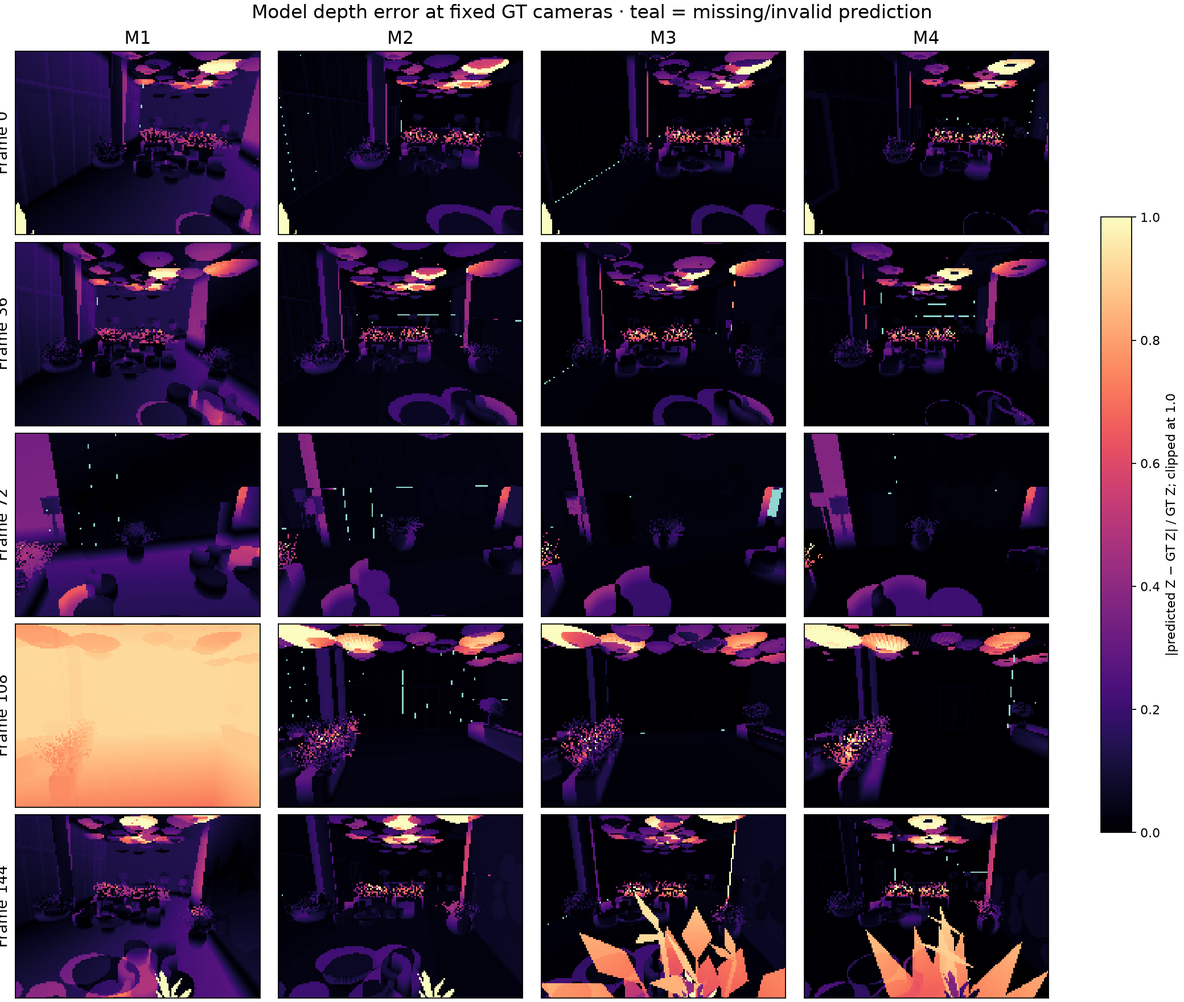
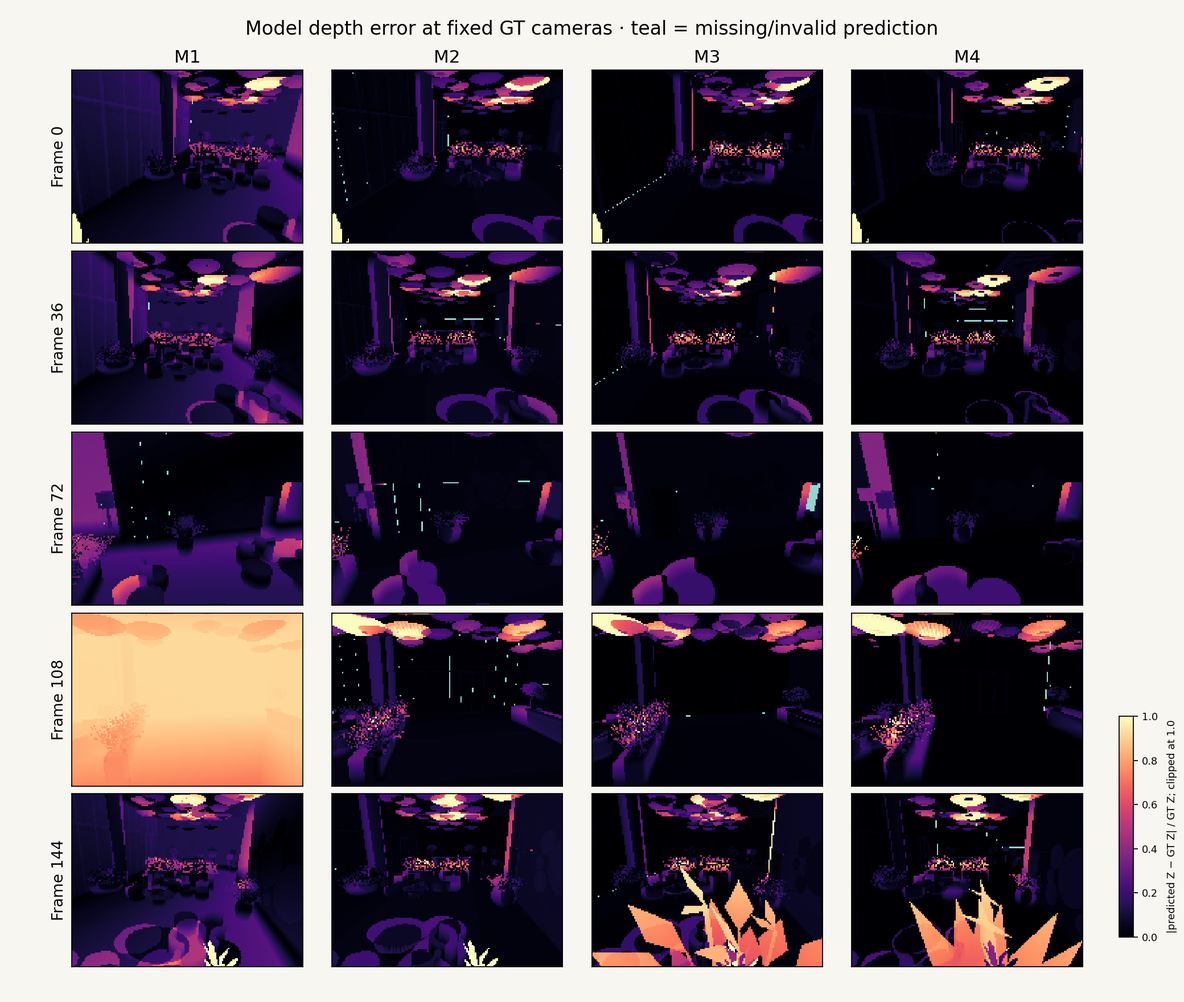
Refine comparison figures and M4 loading

diff --git a/style.css b/style.css
@@ -1,1 +1,1 @@
-:root{--paper:#f7f6f1;--white:#fffefa;--ink:#182c29;--muted:#60706a;--green:#196451;--line:#d9dfd7;--gold:#b87e40}*{box-sizing:border-box}html{scroll-behavior:smooth}body{margin:0;background:var(--paper);color:var(--ink);font:17px/1.8 Inter,"Noto Sans CJK SC",system-ui,sans-serif}a{color:var(--green);text-underline-offset:4px}img{display:block;max-width:100%;height:auto}.skip{position:absolute;left:-9999px}.skip:focus{left:12px;top:12px;background:white;padding:8px;z-index:9}nav{max-width:1420px;margin:auto;padding:22px 4vw;display:flex;justify-content:space-between;border-bottom:1px solid var(--line);font-size:12px;letter-spacing:.09em}nav div{display:flex;gap:20px}.brand{font-weight:750;text-decoration:none}header{max-width:1120px;margin:56px auto 36px;padding:0 32px}.eyebrow,.section-tag{font-size:11px;letter-spacing:.16em;color:var(--green);font-weight:700}h1,h2{font-family:Georgia,"Noto Serif CJK SC",serif;font-weight:500}h1{font-size:clamp(46px,7vw,88px);line-height:1.12;letter-spacing:-.035em;margin:18px 0}.lead{max-width:800px;color:var(--muted);font-size:20px}.meta{display:flex;gap:24px;flex-wrap:wrap;font-size:12px;color:var(--muted)}.hero{max-width:1320px;margin:35px auto 68px;padding:0 28px}.hero img,figure>img{width:100%;background:#e8ebe5}.hero-pair-grid{display:grid;grid-template-columns:1fr 1fr;gap:3px;background:var(--ink)}.hero-pair-grid img{width:100%;aspect-ratio:4/3;object-fit:cover}.hero-pair-grid p{margin:0;padding:7px 12px;background:var(--ink);color:#f7f6f1;font-size:10px;letter-spacing:.11em}figcaption{font-size:12px;color:var(--muted);margin-top:10px}figcaption span{font-weight:700;color:var(--green)}.layout{max-width:1300px;margin:auto;padding:0 30px;display:grid;grid-template-columns:190px minmax(0,920px);gap:60px;justify-content:center}.toc{position:sticky;top:24px;align-self:start;display:flex;flex-direction:column;gap:9px;font-size:12px}.toc a{text-decoration:none;color:var(--muted)}main{min-width:0}section{padding:28px 0 38px;border-top:1px solid var(--line)}section:first-child{border-top:0}.standfirst{font-size:23px;line-height:1.55;color:var(--green)}h2{font-size:32px;margin:7px 0 22px}.notice{border-left:3px solid var(--gold);padding:10px 18px;margin:24px 0;color:var(--muted);background:#fff9}.table-figure{margin:30px 0}.table-scroll{overflow:auto;border:1px solid var(--line);background:var(--white);margin-top:9px}table{width:100%;border-collapse:collapse;white-space:nowrap;font-size:12px;font-variant-numeric:tabular-nums}th,td{padding:11px 12px;border-bottom:1px solid var(--line);text-align:left;vertical-align:top}th{background:#edf0e9;color:var(--muted)}td.wrap{white-space:normal;min-width:240px}.scene-comparison,.fixed-comparison{margin:34px 0;padding:20px;border:1px solid var(--line);border-radius:6px;background:var(--white)}.scene-comparison h3{margin:0 0 18px}.scene-toolbar,.controlrow{display:flex;gap:14px 20px;align-items:end;flex-wrap:wrap}.scene-toolbar label,.controlrow label{display:flex;flex-direction:column;font-size:12px;color:var(--muted)}.method-control{flex:1 1 280px}select,button{font:inherit}.scene-toolbar button,.scene-retry{font-size:13px;padding:9px 13px;color:var(--green);border:1px solid var(--line);border-radius:3px;background:var(--paper);cursor:pointer}.scene-stage{position:relative;height:540px;width:100%;background:#e9ede5;margin-top:18px;overflow:hidden;border-radius:4px;--split:50%}.scene-stage canvas{display:block;width:100%;height:100%;touch-action:none}.scene-label{position:absolute;top:12px;z-index:3;padding:4px 8px;background:#fffde;color:var(--ink);font-size:11px;pointer-events:none}.scene-label-left{left:12px}.scene-label-right{right:12px}.scene-divider{position:absolute;z-index:4;left:var(--split);top:0;width:3px;height:100%;padding:0;border:0;background:white;box-shadow:0 0 0 1px #182c2955;transform:translateX(-50%);cursor:ew-resize;touch-action:none}.scene-divider:after{content:"↔";position:absolute;top:50%;left:50%;transform:translate(-50%,-50%);width:30px;height:30px;line-height:27px;border-radius:50%;background:white;color:var(--green);border:1px solid var(--line)}.scene-split{position:absolute;width:1px;height:1px;opacity:0}.scene-status{position:absolute;left:50%;top:50%;transform:translate(-50%,-50%);padding:9px 12px;background:#fffef0;z-index:5;font-size:13px}.scene-status.error{color:#8d251d}.scene-retry{display:none;margin-top:10px}.scene-comparison[data-state=error] .scene-retry{display:inline-block}.scene-comparison:not(.is-comparing) .scene-divider{display:none}.compare-pair{display:grid;grid-template-columns:1fr 1fr;gap:14px;margin-top:16px}.compare-pair img{width:100%;aspect-ratio:4/3;object-fit:contain;background:#e9ede5}.compare-subcaption{margin:6px 0 0;font-size:11px;color:var(--muted);letter-spacing:.04em}.asset-downloads{display:grid;grid-template-columns:1fr 1fr;gap:0 20px;font-size:12px}.asset-downloads p{margin:4px 0}.office-cafe-embed{margin-top:24px;border:1px solid var(--line);border-radius:6px;overflow:hidden;background:#111}.office-cafe-embed iframe{display:block;width:100%;height:min(880px,85vh);min-height:680px;border:0;background:#111}.office-links{display:flex;gap:18px;flex-wrap:wrap;font-size:12px}footer{max-width:1120px;margin:70px auto 0;padding:30px;border-top:1px solid var(--line);font-size:12px;color:var(--muted)}@media(max-width:950px){.layout{grid-template-columns:1fr}.toc{position:static;display:grid;grid-template-columns:1fr 1fr}}@media(max-width:600px){body{font-size:16px}nav{padding:17px 18px}.brand{font-size:10px}nav div{gap:12px}header{padding:0 20px;margin-top:35px}h1{font-size:43px}.lead{font-size:17px}.hero{padding:0 12px;margin-bottom:40px}.layout{padding:0 20px}.toc{grid-template-columns:1fr}.standfirst{font-size:20px}h2{font-size:27px}.scene-comparison,.fixed-comparison{padding:12px}.scene-stage{height:360px}.compare-pair,.asset-downloads{grid-template-columns:1fr}.office-cafe-embed iframe{height:760px;min-height:620px}}
+:root{--paper:#f7f6f1;--white:#fffefa;--ink:#182c29;--muted:#60706a;--green:#196451;--line:#d9dfd7;--gold:#b87e40}*{box-sizing:border-box}html{scroll-behavior:smooth}body{margin:0;background:var(--paper);color:var(--ink);font:17px/1.8 Inter,"Noto Sans CJK SC",system-ui,sans-serif}a{color:var(--green);text-underline-offset:4px}img{display:block;max-width:100%;height:auto}.skip{position:absolute;left:-9999px}.skip:focus{left:12px;top:12px;background:white;padding:8px;z-index:9}nav{max-width:1420px;margin:auto;padding:22px 4vw;display:flex;justify-content:space-between;border-bottom:1px solid var(--line);font-size:12px;letter-spacing:.09em}nav div{display:flex;gap:20px}.brand{font-weight:750;text-decoration:none}header{max-width:1120px;margin:56px auto 36px;padding:0 32px}.eyebrow,.section-tag{font-size:11px;letter-spacing:.16em;color:var(--green);font-weight:700}h1,h2{font-family:Georgia,"Noto Serif CJK SC",serif;font-weight:500}h1{font-size:clamp(46px,7vw,88px);line-height:1.12;letter-spacing:-.035em;margin:18px 0}.lead{max-width:800px;color:var(--muted);font-size:20px}.meta{display:flex;gap:24px;flex-wrap:wrap;font-size:12px;color:var(--muted)}.hero{max-width:1320px;margin:35px auto 68px;padding:0 28px}.hero img,figure>img{width:100%;background:#e8ebe5}.hero-pair-grid{display:grid;grid-template-columns:1fr 1fr;gap:3px;background:var(--ink)}.hero-pair-grid img{width:100%;aspect-ratio:4/3;object-fit:cover}.hero-pair-grid p{margin:0;padding:7px 12px;background:var(--ink);color:#f7f6f1;font-size:10px;letter-spacing:.11em}figcaption{font-size:12px;color:var(--muted);margin-top:10px}figcaption span{font-weight:700;color:var(--green)}.layout{max-width:1300px;margin:auto;padding:0 30px;display:grid;grid-template-columns:190px minmax(0,920px);gap:60px;justify-content:center}.toc{position:sticky;top:24px;align-self:start;display:flex;flex-direction:column;gap:9px;font-size:12px}.toc a{text-decoration:none;color:var(--muted)}main{min-width:0}section{padding:28px 0 38px;border-top:1px solid var(--line)}section:first-child{border-top:0}.standfirst{font-size:23px;line-height:1.55;color:var(--green)}h2{font-size:32px;margin:7px 0 22px}.notice{border-left:3px solid var(--gold);padding:10px 18px;margin:24px 0;color:var(--muted);background:#fff9}.table-figure{margin:30px 0}.table-scroll{overflow:auto;border:1px solid var(--line);background:var(--white);margin-top:9px}table{width:100%;border-collapse:collapse;white-space:nowrap;font-size:12px;font-variant-numeric:tabular-nums}th,td{padding:11px 12px;border-bottom:1px solid var(--line);text-align:left;vertical-align:top}th{background:#edf0e9;color:var(--muted)}td.wrap{white-space:normal;min-width:240px}.scene-comparison,.fixed-comparison{margin:34px 0;padding:20px;border:1px solid var(--line);border-radius:6px;background:var(--white)}.scene-comparison h3{margin:0 0 18px}.scene-toolbar,.controlrow{display:flex;gap:14px 20px;align-items:end;flex-wrap:wrap}.scene-toolbar label,.controlrow label{display:flex;flex-direction:column;font-size:12px;color:var(--muted)}.method-control{flex:1 1 280px}select,button{font:inherit}.scene-toolbar button,.scene-retry{font-size:13px;padding:9px 13px;color:var(--green);border:1px solid var(--line);border-radius:3px;background:var(--paper);cursor:pointer}.scene-stage{position:relative;height:540px;width:100%;background:#e9ede5;margin-top:18px;overflow:hidden;border-radius:4px;--split:50%}.scene-stage canvas{display:block;width:100%;height:100%;touch-action:none}.scene-label{position:absolute;top:12px;z-index:3;padding:4px 8px;background:#fffde;color:var(--ink);font-size:11px;pointer-events:none}.scene-label-left{left:12px}.scene-label-right{right:12px}.scene-divider{position:absolute;z-index:4;left:var(--split);top:0;width:3px;height:100%;padding:0;border:0;background:white;box-shadow:0 0 0 1px #182c2955;transform:translateX(-50%);cursor:ew-resize;touch-action:none}.scene-divider:after{content:"↔";position:absolute;top:50%;left:50%;transform:translate(-50%,-50%);width:30px;height:30px;line-height:27px;border-radius:50%;background:white;color:var(--green);border:1px solid var(--line)}.scene-split{position:absolute;width:1px;height:1px;opacity:0}.scene-status{position:absolute;left:50%;top:50%;transform:translate(-50%,-50%);padding:9px 12px;background:#fffef0;z-index:5;font-size:13px}.scene-status.error{color:#8d251d}.scene-retry{display:none;margin-top:10px}.scene-comparison[data-state=error] .scene-retry{display:inline-block}.scene-comparison:not(.is-comparing) .scene-divider{display:none}.compare-pair{display:grid;grid-template-columns:1fr 1fr;gap:14px;margin-top:16px}.compare-pair img{width:100%;aspect-ratio:4/3;object-fit:contain;background:#e9ede5}.compare-subcaption{margin:6px 0 0;font-size:11px;color:var(--muted);letter-spacing:.04em}.asset-downloads{display:grid;grid-template-columns:1fr 1fr;gap:0 20px;font-size:12px}.asset-downloads p{margin:4px 0}.office-cafe-embed{margin-top:24px;border:1px solid var(--line);border-radius:6px;overflow:hidden;background:#111}.office-cafe-embed iframe{display:block;width:100%;height:min(880px,85vh);min-height:680px;border:0;background:#111}.office-links{display:flex;gap:18px;flex-wrap:wrap;font-size:12px}footer{max-width:1120px;margin:70px auto 0;padding:30px;border-top:1px solid var(--line);font-size:12px;color:var(--muted)}@media(max-width:950px){.layout{grid-template-columns:1fr}.toc{position:static;display:grid;grid-template-columns:1fr 1fr}}@media(max-width:600px){body{font-size:16px}nav{padding:17px 18px}.brand{font-size:10px}nav div{gap:12px}header{padding:0 20px;margin-top:35px}h1{font-size:43px}.lead{font-size:17px}.hero{padding:0 12px;margin-bottom:40px}.layout{padding:0 20px}.toc{grid-template-columns:1fr}.standfirst{font-size:20px}h2{font-size:27px}.scene-comparison,.fixed-comparison{padding:12px}.scene-stage{height:360px}.compare-pair,.asset-downloads{grid-template-columns:1fr}.office-cafe-embed iframe{height:760px;min-height:620px}}#figure-5,#figure-6{width:100%;margin:30px 0}#figure-5>img,#figure-6>img{width:100%;background:var(--paper)}

diff --git a/app.js b/app.js
@@ -1,1 +1,1 @@
-const C={zh:{t:["输入与建模路线","位姿、原生深度与模型深度","冻结模型几何","固定 5 视角外观","同场景 100 视角外观","固定 5 视角模型深度","同场景 100 视角模型深度"],view:"视角",l:{method:"方法",allowed_inputs:"允许输入",geometry_source:"几何来源",modeling_role:"建模角色",ate_m:"ATE (m) ↓",rotation_deg:"旋转误差 (°) ↓",native_depth_absrel:"原生深度 AbsRel ↓",model_depth_absrel:"模型深度 AbsRel ↓",alignment:"配准 / 限制",model_to_gt_mean_m:"模型→GT 均值 (m) ↓",observed_gt_to_model_mean_m:"观测 GT→模型均值 (m) ↓",bidirectional_mean_m:"双向平均 (m) ↓",model_sha256:"模型 SHA256",psnr_db:"PSNR (dB) ↑",ssim:"SSIM ↑",lpips_alex_v01:"LPIPS ↓",absrel:"AbsRel ↓",rmse_m:"RMSE (m) ↓",coverage:"覆盖率 ↑",penalized_mae_m:"缺失惩罚 MAE (m) ↓"}},en:{t:["Inputs and modelling routes","Pose, native depth, and model depth","Frozen-model geometry","Fixed-five appearance","Same-scene 100-view appearance","Fixed-five model depth","Same-scene 100-view model depth"],view:"VIEW",l:{method:"Method",allowed_inputs:"Allowed inputs",geometry_source:"Geometry source",modeling_role:"Modelling role",ate_m:"ATE (m) ↓",rotation_deg:"Rotation (°) ↓",native_depth_absrel:"Native depth AbsRel ↓",model_depth_absrel:"Model depth AbsRel ↓",alignment:"Alignment / limitation",model_to_gt_mean_m:"Model→GT mean (m) ↓",observed_gt_to_model_mean_m:"Observed GT→model mean (m) ↓",bidirectional_mean_m:"Bidirectional mean (m) ↓",model_sha256:"Model SHA256",psnr_db:"PSNR (dB) ↑",ssim:"SSIM ↑",lpips_alex_v01:"LPIPS ↓",absrel:"AbsRel ↓",rmse_m:"RMSE (m) ↓",coverage:"Coverage ↑",penalized_mae_m:"Penalized MAE (m) ↓"}}};const c=C[document.body.dataset.lang],directions={ate_m:"min",rotation_deg:"min",native_depth_absrel:"min",model_depth_absrel:"min",model_to_gt_mean_m:"min",observed_gt_to_model_mean_m:"min",bidirectional_mean_m:"min",psnr_db:"max",ssim:"max",lpips_alex_v01:"min",absrel:"min",rmse_m:"min",coverage:"max",penalized_mae_m:"min"},hidden={2:new Set(["alignment"]),3:new Set(["model_sha256","alignment"])},fmt=(k,v)=>v===null?"—":typeof v!=="number"?String(v):["native_depth_absrel","model_depth_absrel","absrel","coverage"].includes(k)?(100*v).toFixed(2)+"%":v.toFixed(4);fetch("data/tables_1_7.json").then(r=>{if(!r.ok)throw Error(r.status);return r.json()}).then(d=>{[1,2,3,4,5,6,7].forEach(i=>{const f=document.querySelector("#table-"+i),rows=d.tables["table"+i],keys=Object.keys(rows[0]).filter(k=>!hidden[i]?.has(k)),best={};keys.forEach(k=>{if(!directions[k])return;const values=rows.map(r=>r[k]).filter(v=>typeof v==="number"&&Number.isFinite(v));if(values.length)best[k]=(directions[k]==="max"?Math.max:Math.min)(...values)});f.querySelector(".table-title").textContent=c.t[i-1];const t=document.createElement("table"),h=t.createTHead().insertRow();keys.forEach(k=>{const x=document.createElement("th");x.scope="col";x.textContent=c.l[k]||k;h.append(x)});const b=t.createTBody();rows.forEach(r=>{const tr=b.insertRow();keys.forEach((k,j)=>{const x=document.createElement(j?"td":"th");if(!j)x.scope="row";if(["allowed_inputs","geometry_source","modeling_role","alignment"].includes(k))x.className="wrap";const text=fmt(k,r[k]);if(typeof r[k]==="number"&&r[k]===best[k]){const strong=document.createElement("strong");strong.textContent=text;x.append(strong)}else x.textContent=text;tr.append(x)})});f.querySelector(".table-mount").append(t)})}).catch(e=>{document.querySelectorAll(".table-mount").forEach(x=>x.textContent="Table load failed: "+e.message);console.error(e)});const fixedPreloads=[];for(const m of ["M1","M2","M3","M4","GT"])for(const f of [0,36,72,108,144]){const image=new Image();image.src=`assets/fixed_views/${m}/${String(f).padStart(3,"0")}.png`;fixedPreloads.push(image)}const method=document.querySelector("#compare-method"),frame=document.querySelector("#compare-frame");function refresh(){const id=String(frame.value).padStart(3,"0"),m=method.value;document.querySelector("#compare-pred").src=`assets/fixed_views/${m}/${id}.png`;document.querySelector("#compare-gt").src=`assets/fixed_views/GT/${id}.png`;document.querySelector("#compare-label").textContent=`${m} / ${c.view} ${frame.value}`;document.querySelector("#figure-4").dataset.method=m;document.querySelector("#figure-4").dataset.frame=frame.value}method?.addEventListener("change",refresh);frame?.addEventListener("change",refresh);refresh();
+const C={zh:{t:["输入与建模路线","位姿、原生深度与模型深度","冻结模型几何","固定 5 视角外观","同场景 100 视角外观","固定 5 视角模型深度","同场景 100 视角模型深度"],view:"视角",l:{method:"方法",allowed_inputs:"允许输入",geometry_source:"几何来源",modeling_role:"建模角色",ate_m:"ATE (m) ↓",rotation_deg:"旋转误差 (°) ↓",native_depth_absrel:"原生深度 AbsRel ↓",model_depth_absrel:"模型深度 AbsRel ↓",alignment:"配准 / 限制",model_to_gt_mean_m:"模型→GT 均值 (m) ↓",observed_gt_to_model_mean_m:"观测 GT→模型均值 (m) ↓",bidirectional_mean_m:"双向平均 (m) ↓",model_sha256:"模型 SHA256",psnr_db:"PSNR (dB) ↑",ssim:"SSIM ↑",lpips_alex_v01:"LPIPS ↓",absrel:"AbsRel ↓",rmse_m:"RMSE (m) ↓",coverage:"覆盖率 ↑",penalized_mae_m:"缺失惩罚 MAE (m) ↓"}},en:{t:["Inputs and modelling routes","Pose, native depth, and model depth","Frozen-model geometry","Fixed-five appearance","Same-scene 100-view appearance","Fixed-five model depth","Same-scene 100-view model depth"],view:"VIEW",l:{method:"Method",allowed_inputs:"Allowed inputs",geometry_source:"Geometry source",modeling_role:"Modelling role",ate_m:"ATE (m) ↓",rotation_deg:"Rotation (°) ↓",native_depth_absrel:"Native depth AbsRel ↓",model_depth_absrel:"Model depth AbsRel ↓",alignment:"Alignment / limitation",model_to_gt_mean_m:"Model→GT mean (m) ↓",observed_gt_to_model_mean_m:"Observed GT→model mean (m) ↓",bidirectional_mean_m:"Bidirectional mean (m) ↓",model_sha256:"Model SHA256",psnr_db:"PSNR (dB) ↑",ssim:"SSIM ↑",lpips_alex_v01:"LPIPS ↓",absrel:"AbsRel ↓",rmse_m:"RMSE (m) ↓",coverage:"Coverage ↑",penalized_mae_m:"Penalized MAE (m) ↓"}}};const c=C[document.body.dataset.lang],directions={ate_m:"min",rotation_deg:"min",native_depth_absrel:"min",model_depth_absrel:"min",model_to_gt_mean_m:"min",observed_gt_to_model_mean_m:"min",bidirectional_mean_m:"min",psnr_db:"max",ssim:"max",lpips_alex_v01:"min",absrel:"min",rmse_m:"min",coverage:"max",penalized_mae_m:"min"},hidden={2:new Set(["alignment"]),3:new Set(["model_sha256","alignment"])},fmt=(k,v)=>v===null?"—":typeof v!=="number"?String(v):["native_depth_absrel","model_depth_absrel","absrel","coverage"].includes(k)?(100*v).toFixed(2)+"%":v.toFixed(4);fetch("data/tables_1_7.json").then(r=>{if(!r.ok)throw Error(r.status);return r.json()}).then(d=>{[1,2,3,4,5,6,7].forEach(i=>{const f=document.querySelector("#table-"+i),rows=d.tables["table"+i],keys=Object.keys(rows[0]).filter(k=>!hidden[i]?.has(k)),best={};keys.forEach(k=>{if(!directions[k])return;const values=rows.map(r=>r[k]).filter(v=>typeof v==="number"&&Number.isFinite(v));if(values.length)best[k]=(directions[k]==="max"?Math.max:Math.min)(...values)});f.querySelector(".table-title").textContent=c.t[i-1];const t=document.createElement("table"),h=t.createTHead().insertRow();keys.forEach(k=>{const x=document.createElement("th");x.scope="col";x.textContent=c.l[k]||k;h.append(x)});const b=t.createTBody();rows.forEach(r=>{const tr=b.insertRow();keys.forEach((k,j)=>{const x=document.createElement(j?"td":"th");if(!j)x.scope="row";if(["allowed_inputs","geometry_source","modeling_role","alignment"].includes(k))x.className="wrap";const text=fmt(k,r[k]);if(typeof r[k]==="number"&&r[k]===best[k]){const strong=document.createElement("strong");strong.textContent=text;x.append(strong)}else x.textContent=text;tr.append(x)})});f.querySelector(".table-mount").append(t)})}).catch(e=>{document.querySelectorAll(".table-mount").forEach(x=>x.textContent="Table load failed: "+e.message);console.error(e)});const method=document.querySelector("#compare-method"),frame=document.querySelector("#compare-frame");method.disabled=false;frame.disabled=false;function refresh(){const id=String(frame.value).padStart(3,"0"),m=method.value;document.querySelector("#compare-pred").src=`assets/fixed_views/${m}/${id}.png`;document.querySelector("#compare-gt").src=`assets/fixed_views/GT/${id}.png`;document.querySelector("#compare-label").textContent=`${m} / ${c.view} ${frame.value}`;document.querySelector("#figure-4").dataset.method=m;document.querySelector("#figure-4").dataset.frame=frame.value}method?.addEventListener("change",refresh);frame?.addEventListener("change",refresh);refresh();

diff --git a/en.html b/en.html
@@ -6,7 +6,7 @@
 <section id="editable"><p class="section-tag">03 / EDITABLE ASSETS</p><h2>Editable M1–M4</h2><p>M4 is revision 4: 74 semantic objects, 37 static AABB colliders, and 180 cameras. The independent reviewer examined revision 2 only. Revisions 3–4 fixed identified issues, but revision 4 has not received a complete independent visual re-review; final visual approval is not claimed.</p><p>These display copies and runtime registrations do not alter the frozen models. M1's alignment is diagnostic only.</p><figure class="scene-comparison" id="figure-3" data-state="idle"><h3>Rotate, zoom, and inspect the frozen scenes</h3>
 <div class="scene-toolbar"><label class="method-control">Reconstruction / GT<select id="model-select"><option value="M1">M1</option><option value="M2">M2</option><option value="M3" selected>M3</option><option value="M4">M4</option><option value="GT">GT</option></select></label><label>Display<select id="scene-mode"><option value="compare">Split comparison with GT</option><option value="single">View selected scene alone</option></select></label><button id="scene-reset" type="button">Reset view</button></div>
 <div class="scene-stage"><span class="scene-label scene-label-left">M3</span><span class="scene-label scene-label-right">GT</span><button class="scene-divider" type="button" role="slider" aria-label="Comparison divider" aria-valuemin="2" aria-valuemax="98" aria-valuenow="50"></button><input id="scene-split" class="scene-split" type="range" min="2" max="98" value="50" aria-label="Comparison split"><p class="scene-status">Scroll here to load the 3D comparison.</p></div><button id="scene-retry" class="scene-retry" type="button">Retry</button>
-<figcaption><span>Figure 3.</span> One camera and one full viewport compare the selected frozen model with GT. Ceilings and surrounding walls are hidden at runtime for the same cutaway-style inspection; source files remain unchanged.</figcaption></figure><figure class="fixed-comparison" id="figure-4"><div class="controlrow"><label>Method<select id="compare-method"><option value="M1">M1</option><option value="M2">M2</option><option value="M3">M3</option><option value="M4">M4</option></select></label><label>Fixed view<select id="compare-frame"><option value="0">0</option><option value="36">36</option><option value="72">72</option><option value="108">108</option><option value="144">144</option></select></label></div><div class="compare-pair"><div><img id="compare-pred" src="assets/fixed_views/M1/000.png" alt="Selected frozen model rendering"><p id="compare-label" class="compare-subcaption">M1 / VIEW 0</p></div><div><img id="compare-gt" src="assets/fixed_views/GT/000.png" alt="Input GT RGB"><p class="compare-subcaption">INPUT / GT RGB</p></div></div><figcaption><span>Figure 4.</span> Frozen-model rendering and input GT RGB from exactly the same view.</figcaption></figure><figure id="figure-5"><img loading="lazy" src="assets/fixed_five_view_comparison_m1_m4.jpg" alt="M1 to M4 and input GT across five fixed views"><figcaption><span>Figure 5.</span> M1–M4 and input GT across five fixed views.</figcaption></figure><div class="asset-downloads"><p><strong>M1</strong> <a href="models/M1/scene.blend" download>scene.blend ↓</a> · <a href="models/M1/scene.glb" download>scene.glb ↓</a> · <a href="evidence/M1/manifest.json">manifest ↗</a></p><p><strong>M2</strong> <a href="models/M2/scene.blend" download>scene.blend ↓</a> · <a href="models/M2/scene.glb" download>scene.glb ↓</a> · <a href="evidence/M2/manifest.json">manifest ↗</a></p><p><strong>M3</strong> <a href="models/M3/scene.blend" download>scene.blend ↓</a> · <a href="models/M3/scene.glb" download>scene.glb ↓</a> · <a href="evidence/M3/manifest.json">manifest ↗</a></p><p><strong>M4</strong> <a href="models/M4/scene.blend" download>scene.blend ↓</a> · <a href="models/M4/scene.glb" download>scene.glb ↓</a> · <a href="evidence/M4/manifest.json">manifest ↗</a></p></div></section>
+<figcaption><span>Figure 3.</span> One camera and one full viewport compare the selected frozen model with GT. Ceilings and surrounding walls are hidden at runtime for the same cutaway-style inspection; source files remain unchanged.</figcaption></figure><figure class="fixed-comparison" id="figure-4"><div class="controlrow"><label>Method<select id="compare-method" disabled><option value="M1">M1</option><option value="M2">M2</option><option value="M3">M3</option><option value="M4">M4</option></select></label><label>Fixed view<select id="compare-frame" disabled><option value="0">0</option><option value="36">36</option><option value="72">72</option><option value="108">108</option><option value="144">144</option></select></label></div><div class="compare-pair"><div><img id="compare-pred" src="assets/fixed_views/M1/000.png" alt="Selected frozen model rendering"><p id="compare-label" class="compare-subcaption">M1 / VIEW 0</p></div><div><img id="compare-gt" src="assets/fixed_views/GT/000.png" alt="Input GT RGB"><p class="compare-subcaption">INPUT / GT RGB</p></div></div><figcaption><span>Figure 4.</span> Frozen-model rendering and input GT RGB from exactly the same view.</figcaption></figure><figure id="figure-5"><img loading="lazy" src="assets/fixed_five_view_comparison_m1_m4.jpg" alt="M1 to M4 and input GT across five fixed views"><figcaption><span>Figure 5.</span> M1–M4 and input GT across five fixed views.</figcaption></figure><div class="asset-downloads"><p><strong>M1</strong> <a href="models/M1/scene.blend" download>scene.blend ↓</a> · <a href="models/M1/scene.glb" download>scene.glb ↓</a> · <a href="evidence/M1/manifest.json">manifest ↗</a></p><p><strong>M2</strong> <a href="models/M2/scene.blend" download>scene.blend ↓</a> · <a href="models/M2/scene.glb" download>scene.glb ↓</a> · <a href="evidence/M2/manifest.json">manifest ↗</a></p><p><strong>M3</strong> <a href="models/M3/scene.blend" download>scene.blend ↓</a> · <a href="models/M3/scene.glb" download>scene.glb ↓</a> · <a href="evidence/M3/manifest.json">manifest ↗</a></p><p><strong>M4</strong> <a href="models/M4/scene.blend" download>scene.blend ↓</a> · <a href="models/M4/scene.glb" download>scene.glb ↓</a> · <a href="evidence/M4/manifest.json">manifest ↗</a></p></div></section>
 <section id="geometry"><p class="section-tag">04 / GEOMETRY</p><h2>Geometry</h2><p>Bidirectional distances use 100,000 seeded samples per side under the declared global alignment; no mesh ICP is fitted.</p><figure class="table-figure" id="table-3" data-table-key="table3"><figcaption><span>Table 3.</span> <span class="table-title"></span></figcaption><div class="table-scroll table-mount" role="region" tabindex="0" aria-label="Table 3"></div></figure></section>
 <section id="appearance"><p class="section-tag">05 / APPEARANCE</p><h2>Appearance</h2><p>Table 4 uses the five fixed 640×480 checks (0, 36, 72, 108, 144). Table 5 uses one seeded set of 100 views sampled from the other 175 modeling frames. These 100 views are new evaluation views relative to the fixed-five check, but they were still available as modeling RGB inputs. No crop, mask, or per-view fitting is used.</p><figure class="table-figure" id="table-4" data-table-key="table4"><figcaption><span>Table 4.</span> <span class="table-title"></span></figcaption><div class="table-scroll table-mount" role="region" tabindex="0" aria-label="Table 4"></div></figure><figure class="table-figure" id="table-5" data-table-key="table5"><figcaption><span>Table 5.</span> <span class="table-title"></span></figcaption><div class="table-scroll table-mount" role="region" tabindex="0" aria-label="Table 5"></div></figure></section>
 <section id="novel-depth"><p class="section-tag">06 / NOVEL VIEWS</p><h2>Same-scene novel-view depth</h2><p>Table 6 evaluates model optical-Z on the five fixed reference views. Table 7 uses exactly the same seeded 100-view set as Table 5 and aggregates all GT-valid pixels.</p><figure id="figure-6"><img loading="lazy" src="assets/model_depth_error_five_views_m1_m4.png" alt="Model depth error for M1 to M4"><figcaption><span>Figure 6.</span> Model-depth error over five fixed views; teal denotes missing or invalid samples.</figcaption></figure><figure class="table-figure" id="table-6" data-table-key="table6"><figcaption><span>Table 6.</span> <span class="table-title"></span></figcaption><div class="table-scroll table-mount" role="region" tabindex="0" aria-label="Table 6"></div></figure><figure class="table-figure" id="table-7" data-table-key="table7"><figcaption><span>Table 7.</span> <span class="table-title"></span></figcaption><div class="table-scroll table-mount" role="region" tabindex="0" aria-label="Table 7"></div></figure><noscript>JavaScript is required for the tables and interactive figures.</noscript></section>

diff --git a/index.html b/index.html
@@ -6,7 +6,7 @@
 <section id="editable"><p class="section-tag">03 / EDITABLE ASSETS</p><h2>可编辑 M1–M4</h2><p>M4 为 revision 4：74 个 semantic objects、37 个 static AABB colliders、180 台 cameras。独立 reviewer 只审阅了 rev2；rev3/4 修复了已指出的问题，但 rev4 尚无完整独立视觉复审，因此不声称最终视觉通过。</p><p>这些展示副本和运行时配准不改变冻结模型；M1 配准仅作诊断。</p><figure class="scene-comparison" id="figure-3" data-state="idle"><h3>旋转、缩放，检查冻结场景</h3>
 <div class="scene-toolbar"><label class="method-control">重建方法 / GT<select id="model-select"><option value="M1">M1</option><option value="M2">M2</option><option value="M3" selected>M3</option><option value="M4">M4</option><option value="GT">GT</option></select></label><label>显示方式<select id="scene-mode"><option value="compare">中轴线对比 GT</option><option value="single">单独查看所选场景</option></select></label><button id="scene-reset" type="button">重置视角</button></div>
 <div class="scene-stage"><span class="scene-label scene-label-left">M3</span><span class="scene-label scene-label-right">GT</span><button class="scene-divider" type="button" role="slider" aria-label="Comparison divider" aria-valuemin="2" aria-valuemax="98" aria-valuenow="50"></button><input id="scene-split" class="scene-split" type="range" min="2" max="98" value="50" aria-label="Comparison split"><p class="scene-status">滚动到此处加载三维对比。</p></div><button id="scene-retry" class="scene-retry" type="button">重试</button>
-<figcaption><span>Figure 3.</span> 所选冻结模型与 GT 共用同一相机和完整 viewport；网页运行时隐藏顶棚与四周墙体，以相同剖视方式检查，源模型文件保持不变。</figcaption></figure><figure class="fixed-comparison" id="figure-4"><div class="controlrow"><label>方法<select id="compare-method"><option value="M1">M1</option><option value="M2">M2</option><option value="M3">M3</option><option value="M4">M4</option></select></label><label>固定视角<select id="compare-frame"><option value="0">0</option><option value="36">36</option><option value="72">72</option><option value="108">108</option><option value="144">144</option></select></label></div><div class="compare-pair"><div><img id="compare-pred" src="assets/fixed_views/M1/000.png" alt="Selected frozen model rendering"><p id="compare-label" class="compare-subcaption">M1 / 视角 0</p></div><div><img id="compare-gt" src="assets/fixed_views/GT/000.png" alt="Input GT RGB"><p class="compare-subcaption">INPUT / GT RGB</p></div></div><figcaption><span>Figure 4.</span> 同一所选视角下的冻结模型渲染与输入 GT RGB。</figcaption></figure><figure id="figure-5"><img loading="lazy" src="assets/fixed_five_view_comparison_m1_m4.jpg" alt="M1 to M4 and input GT across five fixed views"><figcaption><span>Figure 5.</span> M1–M4 与输入 GT 在五个固定视角下的并排比较。</figcaption></figure><div class="asset-downloads"><p><strong>M1</strong> <a href="models/M1/scene.blend" download>scene.blend ↓</a> · <a href="models/M1/scene.glb" download>scene.glb ↓</a> · <a href="evidence/M1/manifest.json">manifest ↗</a></p><p><strong>M2</strong> <a href="models/M2/scene.blend" download>scene.blend ↓</a> · <a href="models/M2/scene.glb" download>scene.glb ↓</a> · <a href="evidence/M2/manifest.json">manifest ↗</a></p><p><strong>M3</strong> <a href="models/M3/scene.blend" download>scene.blend ↓</a> · <a href="models/M3/scene.glb" download>scene.glb ↓</a> · <a href="evidence/M3/manifest.json">manifest ↗</a></p><p><strong>M4</strong> <a href="models/M4/scene.blend" download>scene.blend ↓</a> · <a href="models/M4/scene.glb" download>scene.glb ↓</a> · <a href="evidence/M4/manifest.json">manifest ↗</a></p></div></section>
+<figcaption><span>Figure 3.</span> 所选冻结模型与 GT 共用同一相机和完整 viewport；网页运行时隐藏顶棚与四周墙体，以相同剖视方式检查，源模型文件保持不变。</figcaption></figure><figure class="fixed-comparison" id="figure-4"><div class="controlrow"><label>方法<select id="compare-method" disabled><option value="M1">M1</option><option value="M2">M2</option><option value="M3">M3</option><option value="M4">M4</option></select></label><label>固定视角<select id="compare-frame" disabled><option value="0">0</option><option value="36">36</option><option value="72">72</option><option value="108">108</option><option value="144">144</option></select></label></div><div class="compare-pair"><div><img id="compare-pred" src="assets/fixed_views/M1/000.png" alt="Selected frozen model rendering"><p id="compare-label" class="compare-subcaption">M1 / 视角 0</p></div><div><img id="compare-gt" src="assets/fixed_views/GT/000.png" alt="Input GT RGB"><p class="compare-subcaption">INPUT / GT RGB</p></div></div><figcaption><span>Figure 4.</span> 同一所选视角下的冻结模型渲染与输入 GT RGB。</figcaption></figure><figure id="figure-5"><img loading="lazy" src="assets/fixed_five_view_comparison_m1_m4.jpg" alt="M1 to M4 and input GT across five fixed views"><figcaption><span>Figure 5.</span> M1–M4 与输入 GT 在五个固定视角下的并排比较。</figcaption></figure><div class="asset-downloads"><p><strong>M1</strong> <a href="models/M1/scene.blend" download>scene.blend ↓</a> · <a href="models/M1/scene.glb" download>scene.glb ↓</a> · <a href="evidence/M1/manifest.json">manifest ↗</a></p><p><strong>M2</strong> <a href="models/M2/scene.blend" download>scene.blend ↓</a> · <a href="models/M2/scene.glb" download>scene.glb ↓</a> · <a href="evidence/M2/manifest.json">manifest ↗</a></p><p><strong>M3</strong> <a href="models/M3/scene.blend" download>scene.blend ↓</a> · <a href="models/M3/scene.glb" download>scene.glb ↓</a> · <a href="evidence/M3/manifest.json">manifest ↗</a></p><p><strong>M4</strong> <a href="models/M4/scene.blend" download>scene.blend ↓</a> · <a href="models/M4/scene.glb" download>scene.glb ↓</a> · <a href="evidence/M4/manifest.json">manifest ↗</a></p></div></section>
 <section id="geometry"><p class="section-tag">04 / GEOMETRY</p><h2>几何</h2><p>双向表面距离每侧使用 100,000 个固定随机种子样本，并采用已声明的全局配准；不额外拟合 mesh ICP。</p><figure class="table-figure" id="table-3" data-table-key="table3"><figcaption><span>Table 3.</span> <span class="table-title"></span></figcaption><div class="table-scroll table-mount" role="region" tabindex="0" aria-label="Table 3"></div></figure></section>
 <section id="appearance"><p class="section-tag">05 / APPEARANCE</p><h2>外观</h2><p>Table 4 使用 5 个固定 640×480 检查视角（0、36、72、108、144）。Table 5 从其余 175 张建模帧中按固定随机种子抽取同一组 100 个视角；它们只相对于固定 5 帧是新的检查视角，仍属于建模 RGB 输入，并非未见输入。全部评测均不裁剪、不遮罩、不逐视角拟合。</p><figure class="table-figure" id="table-4" data-table-key="table4"><figcaption><span>Table 4.</span> <span class="table-title"></span></figcaption><div class="table-scroll table-mount" role="region" tabindex="0" aria-label="Table 4"></div></figure><figure class="table-figure" id="table-5" data-table-key="table5"><figcaption><span>Table 5.</span> <span class="table-title"></span></figcaption><div class="table-scroll table-mount" role="region" tabindex="0" aria-label="Table 5"></div></figure></section>
 <section id="novel-depth"><p class="section-tag">06 / NOVEL VIEWS</p><h2>同场景新视角深度</h2><p>Table 6 在固定 5 个参考视角上评测模型 optical-Z；Table 7 使用与 Table 5 完全相同的固定随机 100 视角，并在全部 GT 有效像素上汇总。</p><figure id="figure-6"><img loading="lazy" src="assets/model_depth_error_five_views_m1_m4.png" alt="Model depth error for M1 to M4"><figcaption><span>Figure 6.</span> M1–M4 五个固定视角的模型深度误差；青绿色表示缺失或无效样本。</figcaption></figure><figure class="table-figure" id="table-6" data-table-key="table6"><figcaption><span>Table 6.</span> <span class="table-title"></span></figcaption><div class="table-scroll table-mount" role="region" tabindex="0" aria-label="Table 6"></div></figure><figure class="table-figure" id="table-7" data-table-key="table7"><figcaption><span>Table 7.</span> <span class="table-title"></span></figcaption><div class="table-scroll table-mount" role="region" tabindex="0" aria-label="Table 7"></div></figure><noscript>JavaScript is required for the tables and interactive figures.</noscript></section>

diff --git a/scripts/site_builder_interactive.py b/scripts/site_builder_interactive.py
@@ -69,7 +69,7 @@ def scene_figure(en):
 def fixed_figure(en):
     methods="".join(f'<option value="{m}">{m}</option>' for m in METHODS)
     frames="".join(f'<option value="{f}">{f}</option>' for f in FRAMES)
-    return f'''<figure class="fixed-comparison" id="figure-4"><div class="controlrow"><label>{"Method" if en else "方法"}<select id="compare-method">{methods}</select></label><label>{"Fixed view" if en else "固定视角"}<select id="compare-frame">{frames}</select></label></div><div class="compare-pair"><div><img id="compare-pred" src="assets/fixed_views/M1/000.png" alt="Selected frozen model rendering"><p id="compare-label" class="compare-subcaption">M1 / {"VIEW" if en else "视角"} 0</p></div><div><img id="compare-gt" src="assets/fixed_views/GT/000.png" alt="Input GT RGB"><p class="compare-subcaption">INPUT / GT RGB</p></div></div><figcaption><span>Figure 4.</span> {"Frozen-model rendering and input GT RGB from exactly the same view." if en else "同一所选视角下的冻结模型渲染与输入 GT RGB。"}</figcaption></figure>'''
+    return f'''<figure class="fixed-comparison" id="figure-4"><div class="controlrow"><label>{"Method" if en else "方法"}<select id="compare-method" disabled>{methods}</select></label><label>{"Fixed view" if en else "固定视角"}<select id="compare-frame" disabled>{frames}</select></label></div><div class="compare-pair"><div><img id="compare-pred" src="assets/fixed_views/M1/000.png" alt="Selected frozen model rendering"><p id="compare-label" class="compare-subcaption">M1 / {"VIEW" if en else "视角"} 0</p></div><div><img id="compare-gt" src="assets/fixed_views/GT/000.png" alt="Input GT RGB"><p class="compare-subcaption">INPUT / GT RGB</p></div></div><figcaption><span>Figure 4.</span> {"Frozen-model rendering and input GT RGB from exactly the same view." if en else "同一所选视角下的冻结模型渲染与输入 GT RGB。"}</figcaption></figure>'''
 
 def downloads():
     return '<div class="asset-downloads">'+"".join(f'<p><strong>{m}</strong> <a href="models/{m}/scene.blend" download>scene.blend ↓</a> · <a href="models/{m}/scene.glb" download>scene.glb ↓</a> · <a href="evidence/{m}/manifest.json">manifest ↗</a></p>' for m in METHODS)+'</div>'
@@ -177,7 +177,12 @@ def main():
     dump(ROOT/"data/fixed_views.json",{"schema_version":1,"source_manifest":VIEW_SOURCE,"source_manifest_sha256":sha(view_src),"frames":list(FRAMES),"methods":[*METHODS,"GT"],"images":fixed})
     (ROOT/"data").mkdir(parents=True,exist_ok=True); shutil.copy2(table_src,ROOT/"data/tables_1_7.json")
     dump(ROOT/"data/source_contract.json",{"schema_version":2,"old_site_baseline":"ae69dbe","source_root_name":source.name,"table_source":{"path":TABLE_SOURCE,"sha256":sha(table_src),"published_url":"data/tables_1_7.json"},"figures":assets,"models":models,"gt_asset":gt,"fixed_views_manifest":"data/fixed_views.json","scene_comparison_manifest":"data/scene_comparison.json","external_embed":{"office_cafe":{"url":OFFICE_URL,"shake_url":OFFICE_URL+"shake.html","retained_features":["model","scan_to_model","source_video_to_model","source_camera_trajectory_playback","shake_control","shake_gentle","shake_strong"]}},"vendor":vendor,"tables":[{"number":i,"key":f"table{i}","methods":list(METHODS),"columns":list(tables["tables"][f"table{i}"][0]),"url":f"index.html#table-{i}","english_url":f"en.html#table-{i}"} for i in range(1,8)],"presentation":{"table2_hidden_columns":["alignment"],"table3_hidden_columns":["model_sha256","alignment"],"figure1_layout":"single supplied teaser image","metric_best_values":"bold, raw-value comparison"},"protocols":tables["protocols"],"m1_notice":tables["m1_notice"]})
-    write(ROOT/"style.css",STYLE+"\n"); write(ROOT/"app.js",APP+"\n"); write(ROOT/"scene-compare.js",SCENE_JS+"\n"); write(ROOT/"index.html",page()+"\n"); write(ROOT/"en.html",page(True)+"\n"); write(ROOT/"README.md",README); write(ROOT/"requirements.txt","playwright>=1.40,<2\n"); write(ROOT/".gitignore","__pycache__/\nqa/\n.venv/\n.publication.json\n"); (ROOT/".nojekyll").touch()
+    figure_width_style="#figure-5,#figure-6{width:100%;margin:30px 0}#figure-5>img,#figure-6>img{width:100%;background:var(--paper)}"
+    eager_preload='const fixedPreloads=[];for(const m of ["M1","M2","M3","M4","GT"])for(const f of [0,36,72,108,144]){const image=new Image();image.src=`assets/fixed_views/${m}/${String(f).padStart(3,"0")}.png`;fixedPreloads.push(image)}'
+    controls='const method=document.querySelector("#compare-method"),frame=document.querySelector("#compare-frame");'
+    if eager_preload not in APP or controls not in APP: raise ValueError("Figure 4 app template changed")
+    app_source=APP.replace(eager_preload,"").replace(controls,controls+"method.disabled=false;frame.disabled=false;")
+    write(ROOT/"style.css",STYLE+figure_width_style+"\n"); write(ROOT/"app.js",app_source+"\n"); write(ROOT/"scene-compare.js",SCENE_JS+"\n"); write(ROOT/"index.html",page()+"\n"); write(ROOT/"en.html",page(True)+"\n"); write(ROOT/"README.md",README); write(ROOT/"requirements.txt","playwright>=1.40,<2\n"); write(ROOT/".gitignore","__pycache__/\nqa/\n.venv/\n.publication.json\n"); (ROOT/".nojekyll").touch()
     files=[]
     for p in sorted(ROOT.rglob("*")):
         if not p.is_file(): continue

diff --git a/scripts/site_validator_interactive.py b/scripts/site_validator_interactive.py
@@ -29,6 +29,8 @@ class Doc(HTMLParser):
 tables=json.loads((ROOT/"data/tables_1_7.json").read_text())
 assert list(tables["tables"])==[f"table{i}" for i in range(1,8)]
 for key,rows in tables["tables"].items(): assert [r["method"] for r in rows]==list(METHODS),key
+m4_table2=next(row for row in tables["tables"]["table2"] if row["method"]=="M4")
+assert m4_table2["ate_m"]=="-" and m4_table2["rotation_deg"]=="-"
 docs={name:Doc(ROOT/name) for name in ("index.html","en.html")}
 required={"question","pose-depth","editable","geometry","appearance","novel-depth","limitations","office-cafe",
           "model-select","scene-mode","scene-reset","scene-split","scene-retry","compare-method","compare-frame",
@@ -128,6 +130,10 @@ app=(ROOT/"app.js").read_text()
 assert '2:new Set(["alignment"])' in app
 assert '3:new Set(["model_sha256","alignment"])' in app
 assert 'document.createElement("strong")' in app
+assert "fixedPreloads" not in app
+assert 'method.disabled=false;frame.disabled=false;' in app
+style=(ROOT/"style.css").read_text()
+assert "#figure-5,#figure-6{width:100%;margin:30px 0}" in style
 for name in ("index.html","en.html"):
     html=(ROOT/name).read_text()
     assert '<figure class="hero" id="figure-1"><img src="assets/teaser_originals.png"' in html
